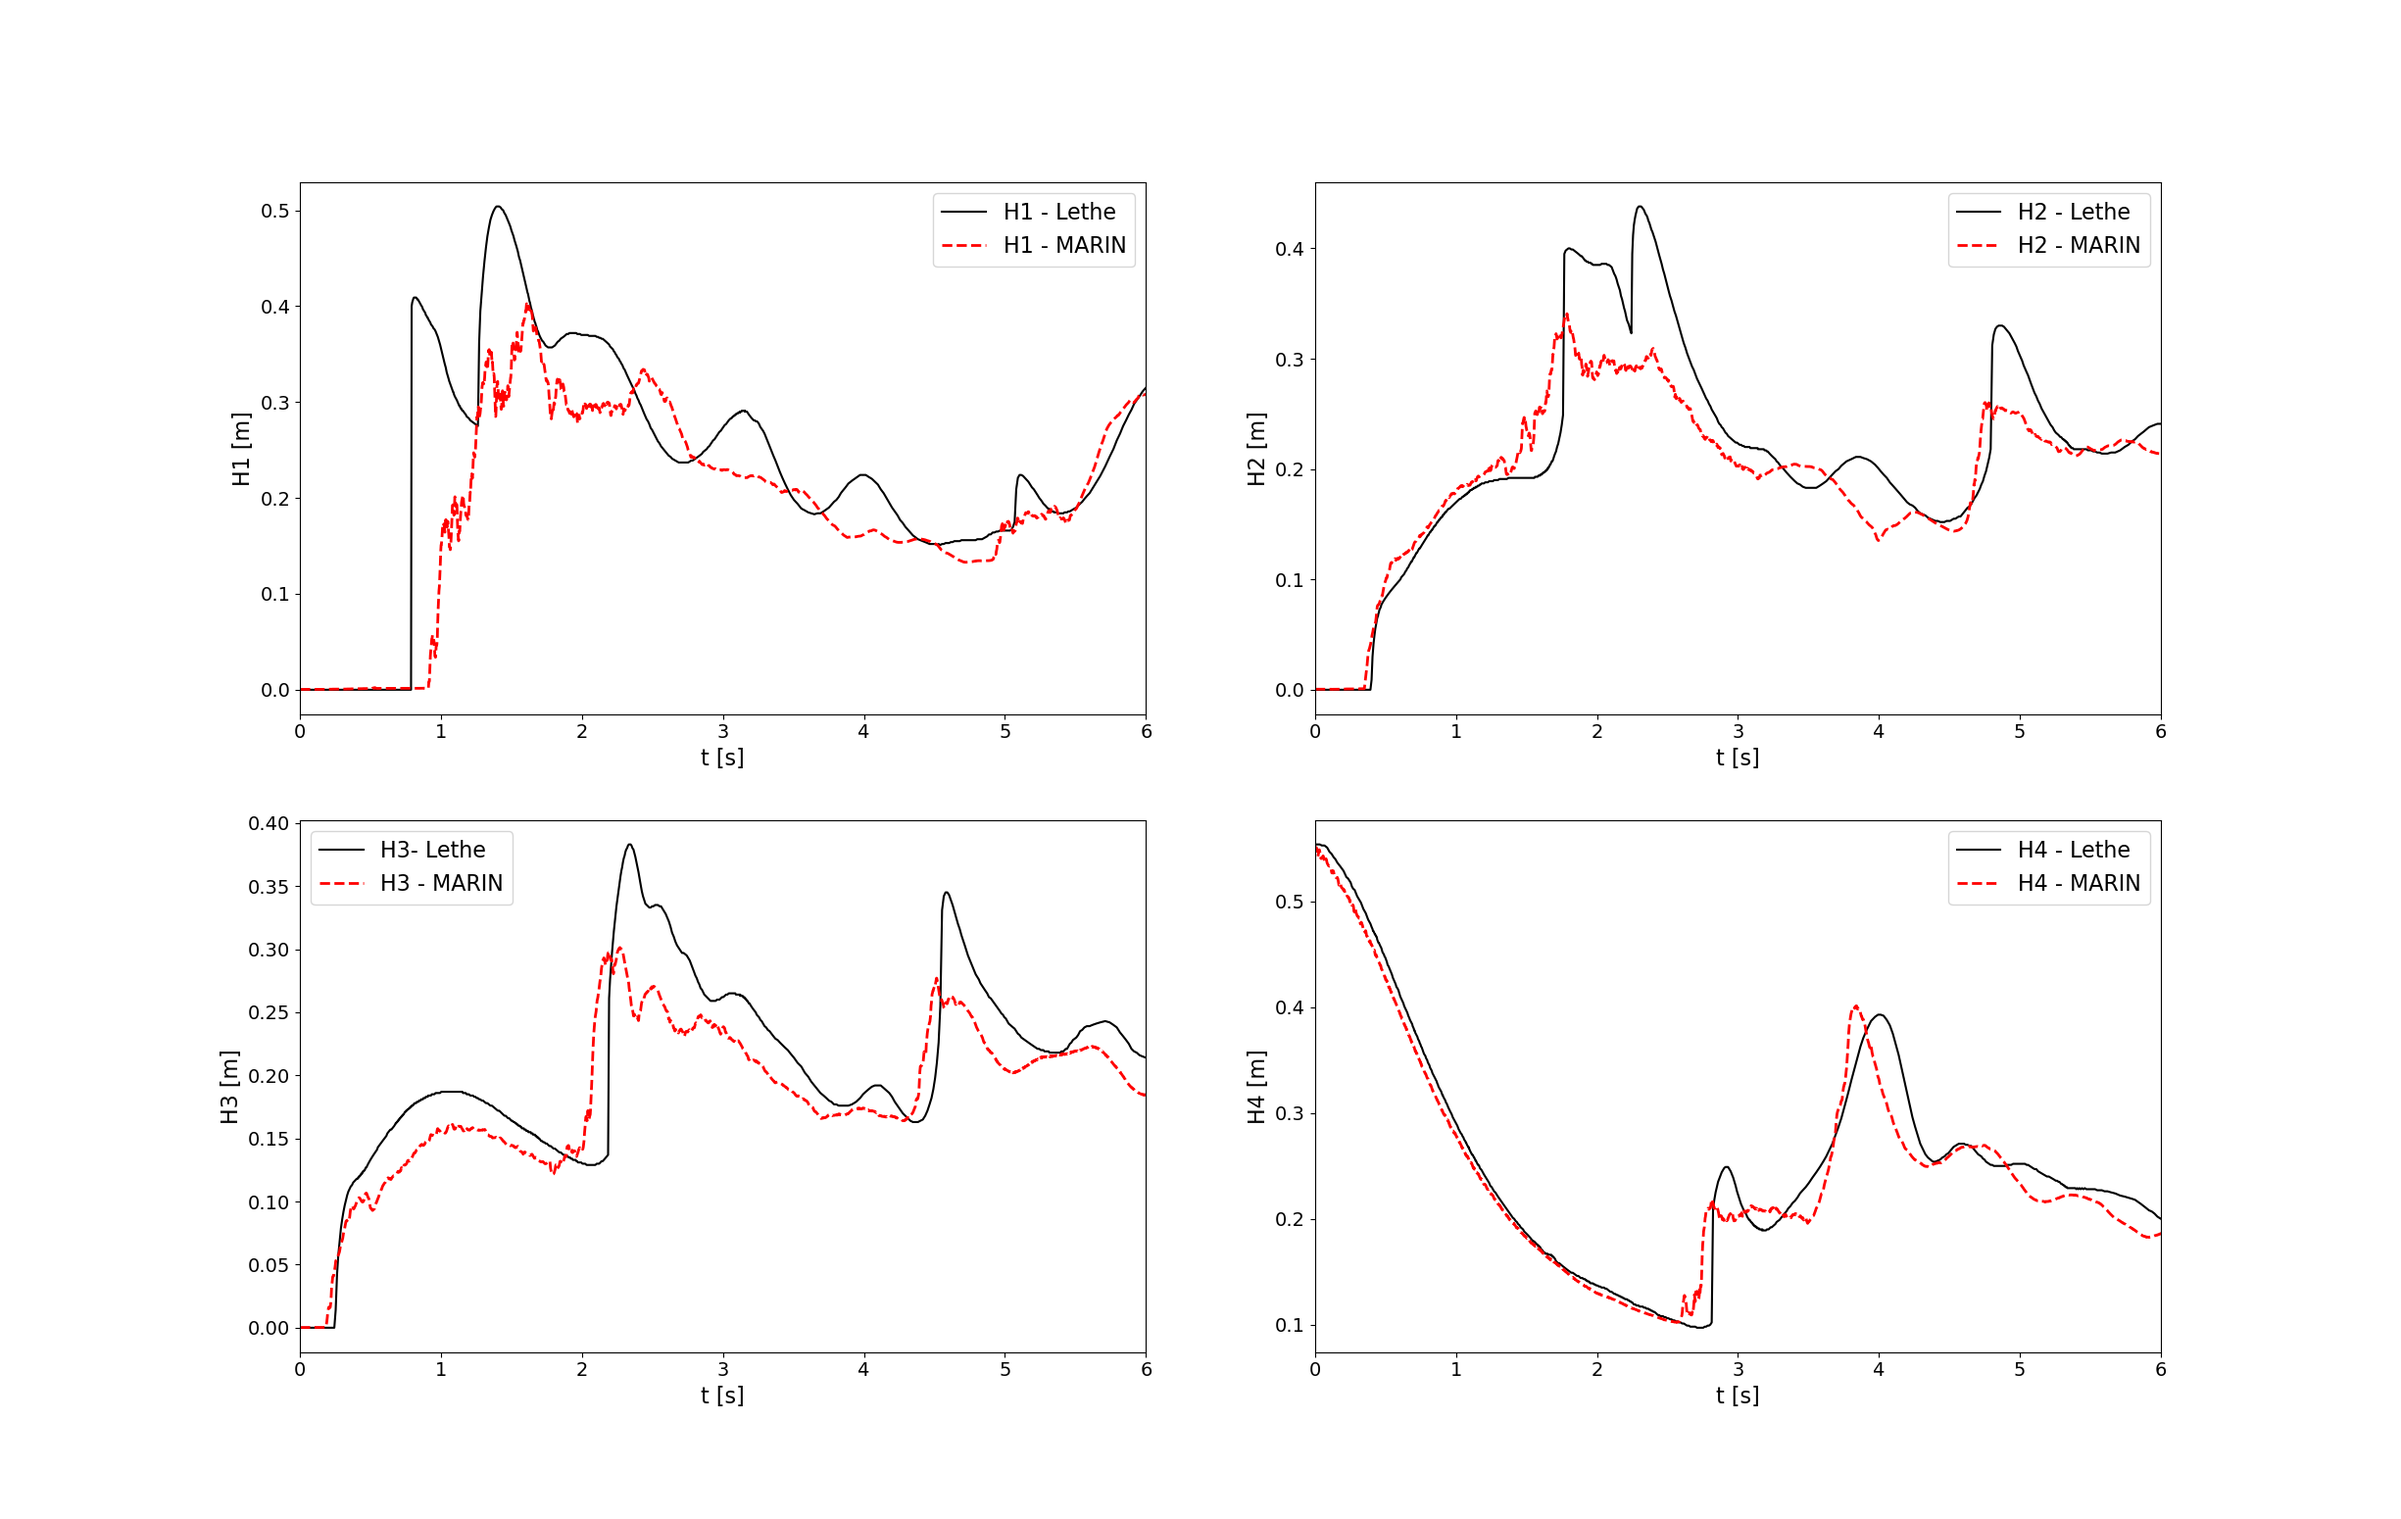
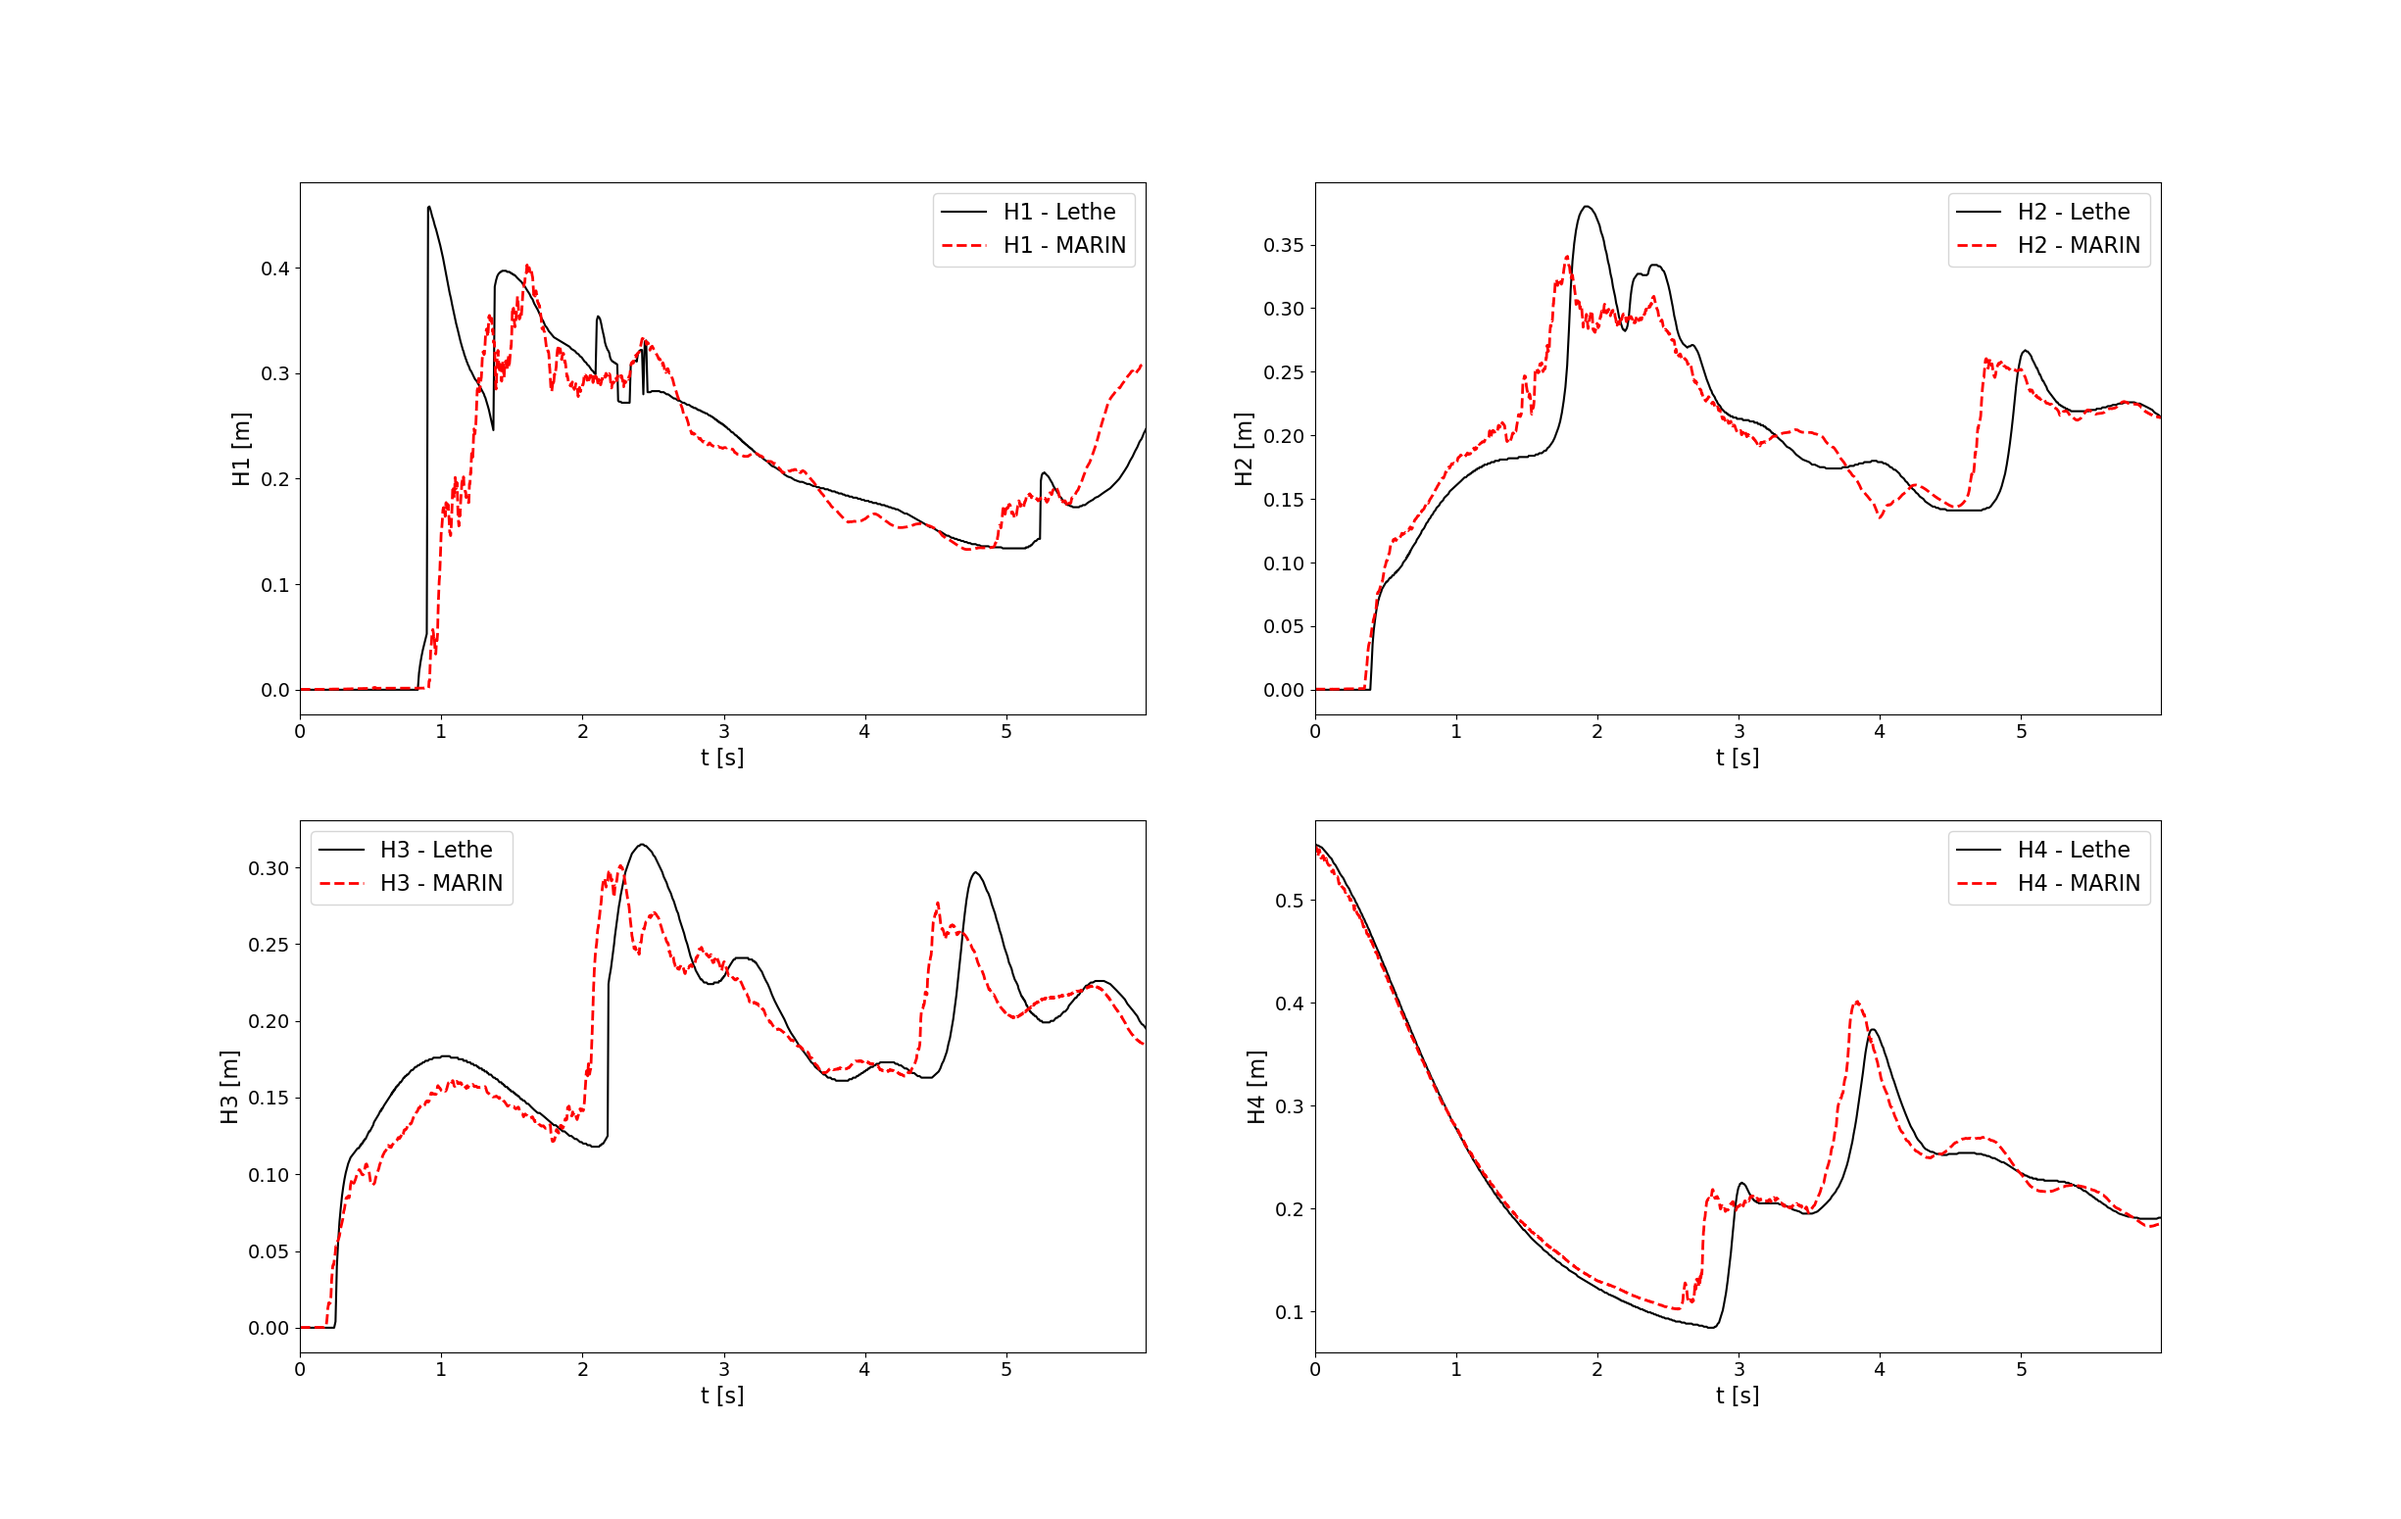
Update 3d dam-break example with tanh filtration

diff --git a/doc/source/examples/multiphysics/3d-dam-break/3d-dam-break.rst b/doc/source/examples/multiphysics/3d-dam-break/3d-dam-break.rst
@@ -11,7 +11,7 @@ This example simulates a dam break experiment from the Maritime Research Institu
 Features
 ----------------------------------
 - Solver: ``gls_navier_stokes_3d`` (Q1-Q1)
-- Two phase flow handled by the Volume-of-Fluids (VOF) approach with interface sharpening
+- Two phase flow handled by the Volume-of-Fluids (VOF) approach with phase fraction filtration
 - Mesh adaptation using phase fraction
 - Unsteady problem handled by an adaptive BDF1 time-stepping scheme
 - The use of a python script for post-processing data
@@ -128,7 +128,7 @@ Note that the fluid dynamics are solved by default.
 Physical properties
 ~~~~~~~~~~~~~~~~~~~~~~~~~~~
 
-The ``physical properties`` subsection defines the physical properties of the fluids. In this example, we need two fluids with densities of :math:`1.204 \ \frac{kg}{m^3}` (air) and :math:`1000 \ \frac{kg}{m^3}` (water). However, the current numerical model was not able to solve with the real dynamic viscosities of the fluids. Therefore, they were altered in order to run the simulation.
+The ``physical properties`` subsection defines the physical properties of the fluids. In this example, we need two fluids with densities of :math:`1.204 \ \frac{\text{kg}}{\text{m}^3}` (air) and :math:`1000 \ \frac{\text{kg}}{\text{m}^3}` (water). However, the current numerical model was not able to solve with the real dynamic viscosities of the fluids. Therefore, they were altered in order to run the simulation.
 
 .. warning::
     Altering the dynamic viscosities of the fluids will surely have an impact on the results. We will show this impact in the `<Results_>`_ section.
@@ -194,7 +194,7 @@ In the ``source term`` subsection, we define the gravitational acceleration.
 VOF
 ~~~~~~~~~~~~~~~~~~~~~~~~~~~
 
-In the ``VOF`` subsection, we enable ``interface sharpening`` to reconstruct the interface and keep it sharp during the simulation. Here we use the default ``constant`` method for interface sharpening.
+In the ``VOF`` subsection, we select the ``tanh`` filter to filter the phase fraction and get a more defined interface. We set the value of beta to 10.
 
 .. code-block:: text
 
@@ -203,12 +203,9 @@ In the ``VOF`` subsection, we enable ``interface sharpening`` to reconstruct the
     #---------------------------------------------------
 
     subsection VOF
-      subsection interface sharpening
-        set enable                  = true
-        set threshold               = 0.5
-        set interface sharpness     = 1.5
-        set frequency               = 10
-        set type                    = constant
+      subsection phase filtration
+        set type   = tanh
+        set beta   = 10
       end
     end
 
@@ -262,7 +259,7 @@ We call the gls_navier_stokes_3d by invoking:
 ``mpirun -np $number_of_CPU_cores gls_navier_stokes_3d 3d-dam-break.prm``
 
 .. warning::
-    Make sure to compile Lethe in `Release` mode and run in parallel using ``mpirun``. This simulation took :math:`\approx` 15.5 hours on 40 processes (runned on the `Béluga <https://docs.alliancecan.ca/wiki/B%C3%A9luga/en>`_ cluster).
+    Make sure to compile Lethe in `Release` mode and run in parallel using ``mpirun``. This simulation took :math:`\approx` 17 hours on 64 processes (runned on the `Narval <https://docs.alliancecan.ca/wiki/Narval/en>`_ cluster).
 
 .. _Results:
 
@@ -294,7 +291,7 @@ In the following figure, we compare the water height evolution at 4 the position
 |                                                                                                                   |
 +-------------------------------------------------------------------------------------------------------------------+
 
-As we can see, the simulated general evolution of the height seems to follow the experimentation results. However, on all 4 subplots, we notice that the height is overestimated. We also notice a slight shift to the right for :math:`H2`,  :math:`H3`, and :math:`H4` evolutions. These observations may be explained by the "highly viscous air" (fluid 0) that acts as an obstacle to the free flow of the water. Additionally, fluid 1 representing the water is 1000 times more viscous than regular water. With these results, we can see that the model needs to be improved to be able to accurately simulate low-viscosity fluids such as air.
+As we can see, the simulated general evolution of the height seems to follow the experimentation results. However, on all 4 subplots, we notice that the height is overestimated. We also notice a slight shift to the right for :math:`H2`,  :math:`H3`, and :math:`H4` evolutions. These observations may be explained by the "highly viscous air" (fluid 0) that acts as an obstacle to the free flow of the water. Additionally, fluid 1 representing the water is 1000 times more viscous than regular water. With these results, we can see that the model needs to be improved to be able to accurately simulate low-viscosity fluids such as air. Furthermore, we observe that the wave formed at the impact with the obstacle doesn't collapse the right way due to the lack of compressibility of the air being simulated.
 
 
 -----------
